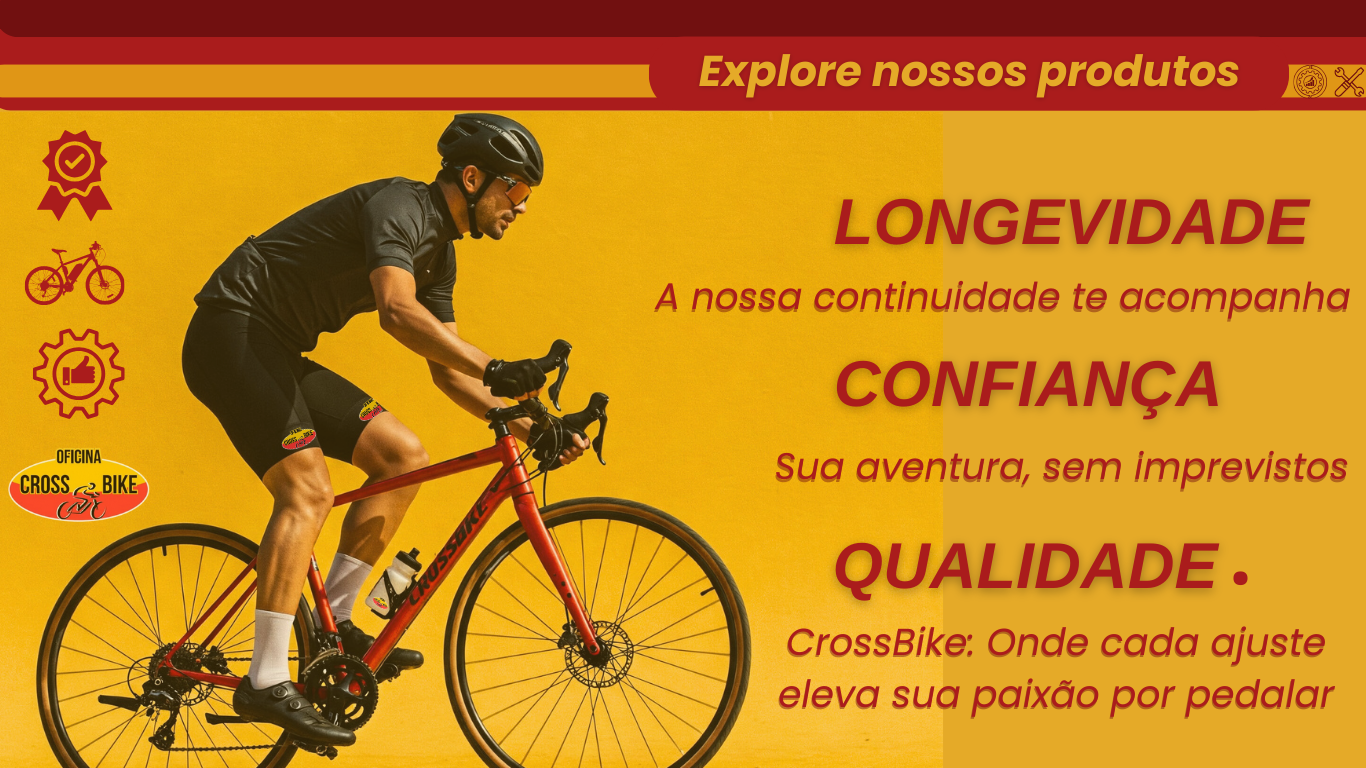
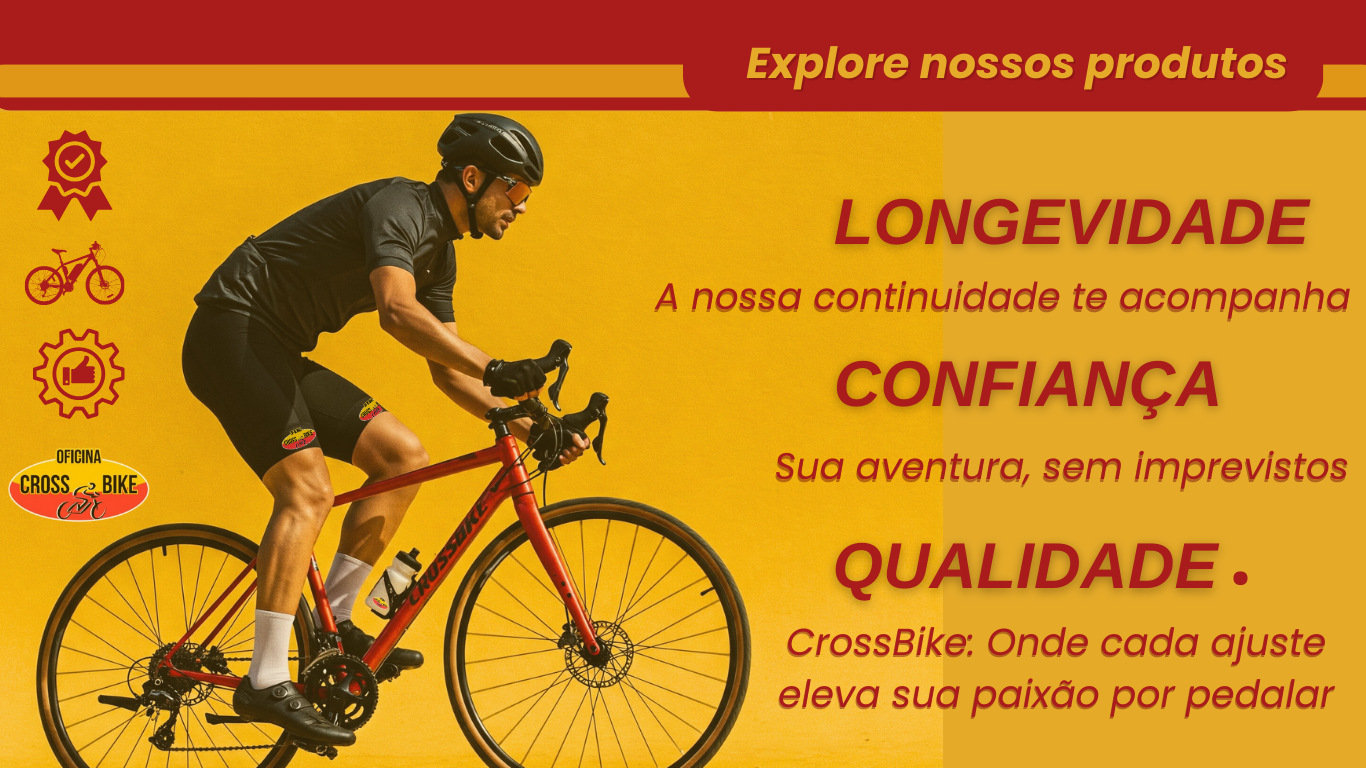
Update

Changed region(s): [[0.0, 0.0, 1.0, 0.1562]]

diff --git a/styles/mobile.css b/styles/mobile.css
@@ -184,7 +184,7 @@ list-style: none;
     width: 100%;
     max-width: 1200px;
     margin: 0;
-    padding: 0.1em 0;
+    padding: 0.3em 0;
     background-color: var(--cor-vermelhoescuro);
     color: var(--cor-amarelalogo);
     font-size: .9em;
@@ -278,7 +278,7 @@ h1  {
 }
 
 img {
-    filter: contrast(120%);
+    filter: contrast(110%);
 }
 
 .imgagem-one img:hover {
